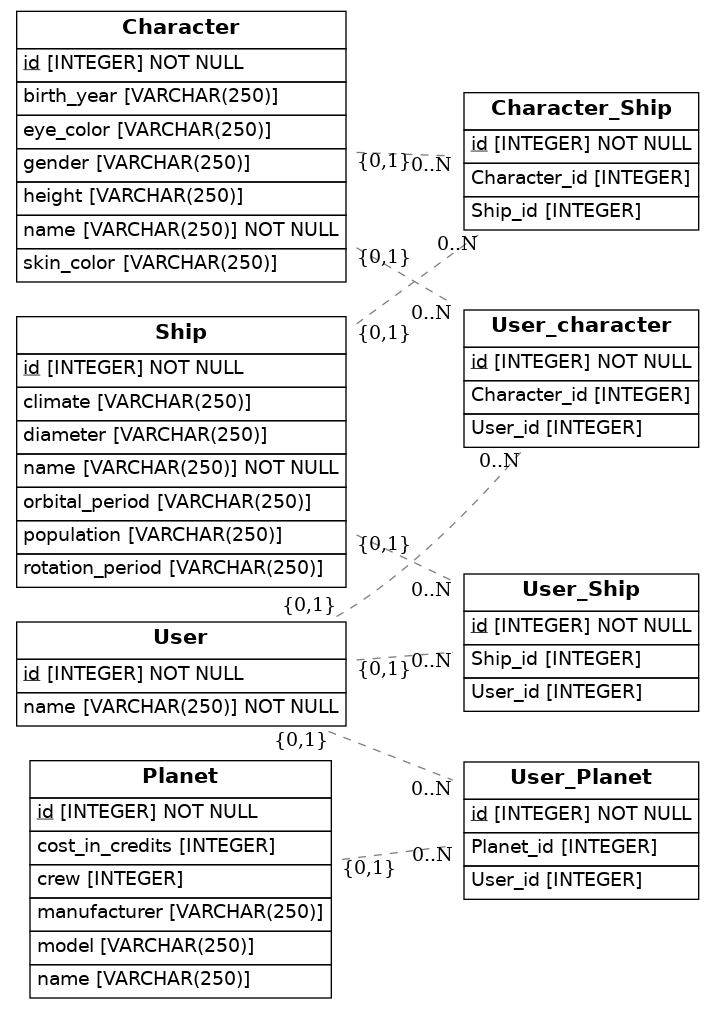
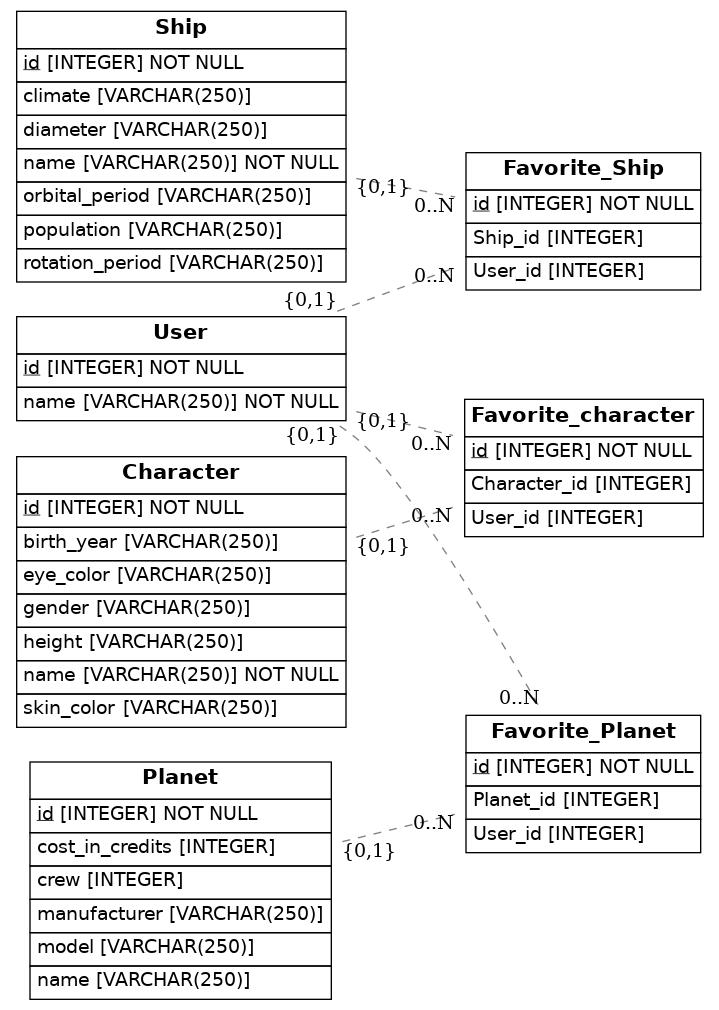
se cambio el nombre de las tablas para que sea mas entendible

Changed region(s): [[0.0, 0.0, 0.9846, 1.0]]

diff --git a/src/models.py b/src/models.py
@@ -48,8 +48,8 @@ class User(Base):
     id = Column(Integer, primary_key=True)
     name = Column(String(250), nullable=False)
 
-class User_character(Base):
-    __tablename__ = 'User_character'
+class Favorite_character(Base):
+    __tablename__ = 'Favorite_character'
     # Here we define columns for the table User
     # Notice that each column is also a normal Python instance attribute.
     id = Column(Integer, primary_key=True)
@@ -58,8 +58,8 @@ class User_character(Base):
     Character_id = Column(Integer, ForeignKey('Character.id'))
     Character = relationship(Character)
 
-class User_Planet(Base):
-    __tablename__ = 'User_Planet'
+class Favorite_Planet(Base):
+    __tablename__ = 'Favorite_Planet'
     # Here we define columns for the table User
     # Notice that each column is also a normal Python instance attribute.
     id = Column(Integer, primary_key=True)
@@ -68,23 +68,13 @@ class User_Planet(Base):
     Planet_id = Column(Integer, ForeignKey('Planet.id'))
     Planet = relationship(Planet)
 
-class User_Ship(Base):
-    __tablename__ = 'User_Ship'
+class Favorite_Ship(Base):
+    __tablename__ = 'Favorite_Ship'
     # Here we define columns for the table User
     # Notice that each column is also a normal Python instance attribute.
     id = Column(Integer, primary_key=True)
     User_id = Column(Integer, ForeignKey('User.id'))
     User = relationship(User)
-    Ship_id = Column(Integer, ForeignKey('Ship.id'))
-    Ship = relationship(Ship)
-
-class Character_Ship(Base):
-    __tablename__ = 'Character_Ship'
-    # Here we define columns for the table Character
-    # Notice that each column is also a normal Python instance attribute.
-    id = Column(Integer, primary_key=True)
-    Character_id = Column(Integer, ForeignKey('Character.id'))
-    Character = relationship(Character)
     Ship_id = Column(Integer, ForeignKey('Ship.id'))
     Ship = relationship(Ship)
 
